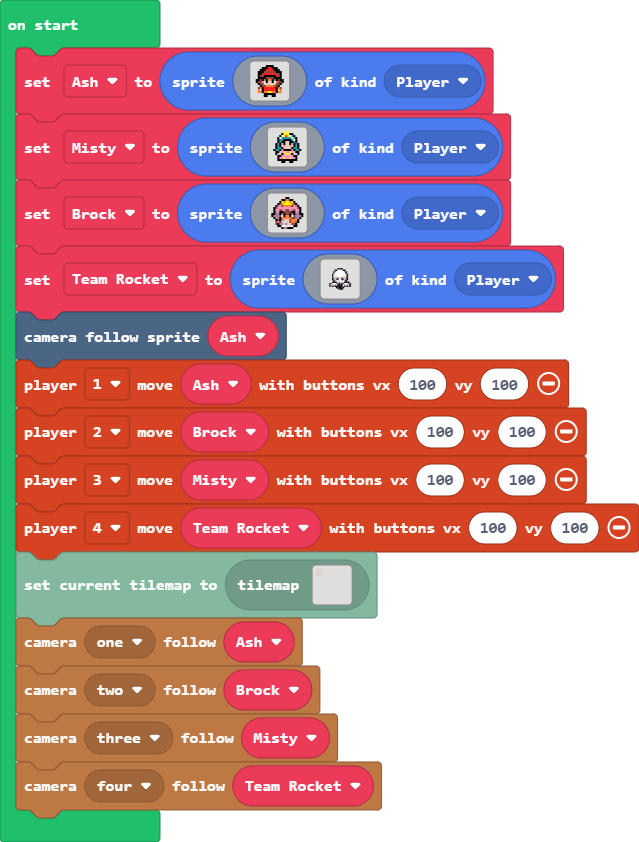
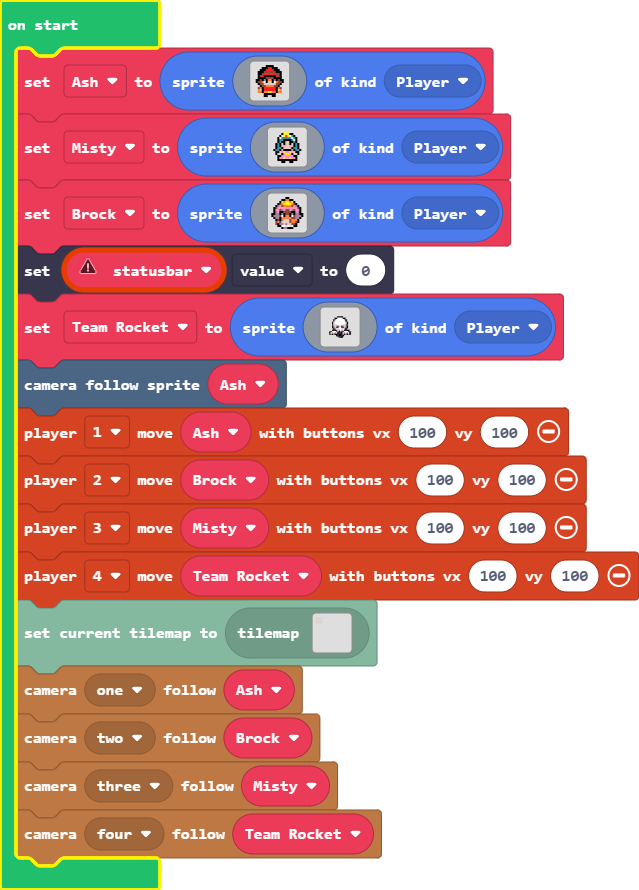
Update main.blocks, main.ts

diff --git a/main.ts b/main.ts
@@ -1,3 +1,4 @@
+let statusbar: StatusBarSprite = null
 let Ash = sprites.create(img`
     . . . . . . f f f f . . . . . . 
     . . . . f f f 2 2 f f f . . . . 
@@ -52,6 +53,7 @@ let Brock = sprites.create(img`
     . . . f f 1 1 d 1 d 1 f f . . . 
     . . . . . f b b f f f . . . . . 
     `, SpriteKind.Player)
+statusbar.value = 0
 let Team_Rocket = sprites.create(img`
     ........................
     ........................
